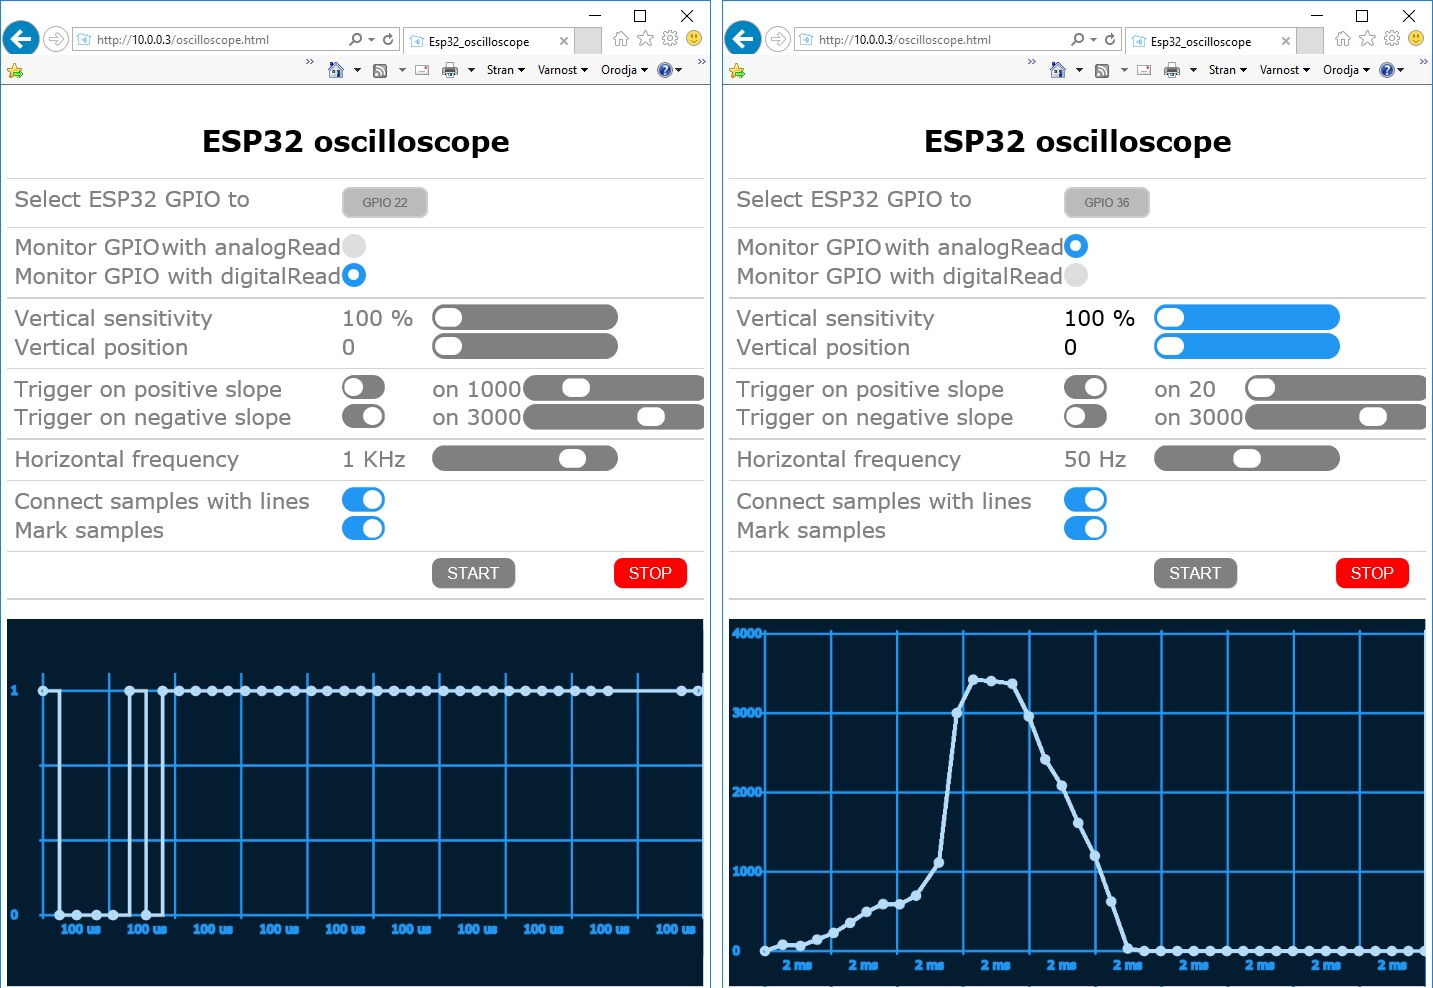
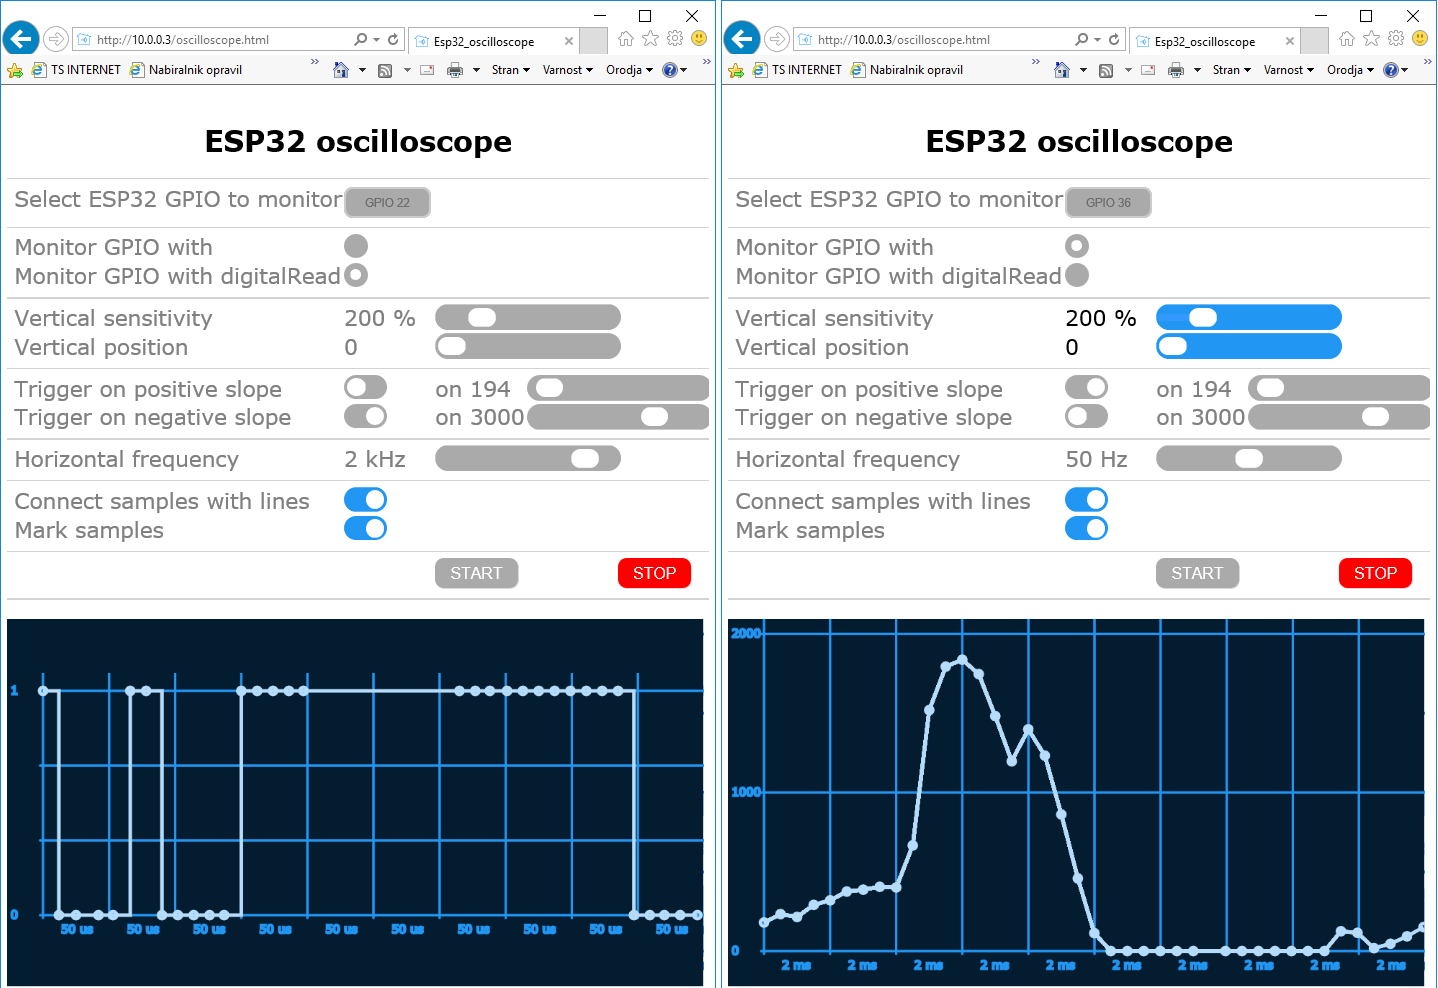
Add files via upload

diff --git a/oscilloscope.html b/oscilloscope.html
@@ -22,17 +22,19 @@
 			/* select control */
 			select {padding: 8px 24px; border-radius: 12px; font-size: 16px; color: black; background-color: #eee; -webkit-appearance: none; -moz-appearance: none; box-sizing: border-box; border: 3px solid #ccc; -webkit-transition: 0.5s; transition: 0.5s; outline: none}
 			select::-ms-expand {display: none}
-			select:disabled {background-color: #bbb}
+			select:disabled {background-color: #aaa}
 
 			/* radio button control */
 			.container {display: black; position: relative; padding-left: 222px; margin-bottom: 14px; cursor: pointer; font-family: verdana; font-size: 30px; color: gray; -webkit-user-select: none; -moz-user-select: none; -ms-user-select: none; user-select: none}
 			.container input {position: absolute; opacity: 0; cursor: pointer; height: 0; width: 0}
 			.checkmark {position: absolute; top: 0; left: 0; height: 34px; width: 34px; background-color: #ddd; border-radius: 50%} 
 			.container:hover input ~ .checkmark {background-color: #ccc}
-			.container input:checked ~ .checkmark {background-color: #2196F3} /* TO DO: set background-color to gray when disabled */
+			.container input:checked ~ .checkmark {background-color: #2196F3}
 			.checkmark:after {content: ""; position: absolute; display: none}
 			.container input:checked ~ .checkmark:after {display: block}
 			.container .checkmark:after {top: 9px; left: 9px; width: 15px; height: 15px; border-radius: 50%; background: white}
+			.container input:disabled ~ .checkmark {background-color: gray} 
+			.container input:disabled ~ .checkmark {background-color: #aaa}
 
 			/* slider control */
 			input[type='range'] {-webkit-appearance: none; -webkit-tap-highlight-color: rgba(255,255,255,0); width: 250px; height: 28px; margin: 0; border: none; padding: 4px 4px; border-radius: 28px; background: #2196F3; outline: none}
@@ -44,8 +46,8 @@
 			input[type='range']::-webkit-slider-thumb {-webkit-appearance: none; width: 38px; height: 26px; border: none; border-radius: 13px; background-color: white}
 			input[type='range']::-moz-range-thumb {width: 38px; height: 26px; border: none; border-radius: 13px; background-color: white}
 			input[type='range']::-ms-thumb {width: 38px; height: 26px; border-radius: 13px; border: 0; background-color: white}
-			input:disabled+.slider {background-color: gray}
-			input[type='range']:disabled {background: gray}
+			input:disabled+.slider {background-color: #aaa}
+			input[type='range']:disabled {background: #aaa}
 
 			/* switch control */
 			.switch {position: relative; display: inline-block; width: 60px; height: 34px}
@@ -57,12 +59,12 @@
 			.switch input {display: none}
 			.slider.round {border-radius: 34px}
 			.slider.round:before {border-radius: 50%}
-			input:disabled+.slider {background-color: gray}
+			input:disabled+.slider {background-color: #aaa}
 
 			/* button control */
 			.button {padding: 10px 15px; font-size: 22px;text-align: center; cursor: pointer; outline: none; color: white; border: none; border-radius: 12px; box-shadow: 1px 1px #ccc; position: relative; top: 0px; height: 42px}
-			button:disabled {background-color: gray}
-			button:disabled:hover {background-color: gray}
+			button:disabled {background-color: #aaa}
+			button:disabled:hover {background-color: #aaa}
 
 			/* blue button */
 			.button1 {background-color: #2196F3}
@@ -388,8 +390,14 @@
 						}
 					};
 
-               				ws.onclose = function() { 
+               				ws.onclose = function () { 
 						// websocket is closed.
+						enableDisableControls (false); 
+					};
+
+					ws.onerror = function (event) {
+						ws.close (); 
+						alert ("WebSocket error: " + event);
 						enableDisableControls (false); 
 					};
 
@@ -584,7 +592,7 @@
 							break;
 				}
 
-				for (x = 0; x < screenWidthTime * 1.1; x += xGridTick) { // * TO DO: 1.1 factor is here to bypass the problem of colouring the last vertical line with the signal colour which I'm not addressing right now
+				for (x = 0; x < screenWidthTime; x += xGridTick) { 
 					i = xOffset + xScale * x;
 					ctx.strokeText (xLabel, i + 25, yOffset + 25);	
 					ctx.beginPath ();
@@ -593,6 +601,7 @@
 					ctx.closePath ();
 					ctx.stroke ();
 				}
+				ctx.beginPath (); ctx.moveTo (-1, -1); ctx.lineTo (-1, -1); ctx.closePath (); ctx.stroke (); // non-existing line - this line will be redrawn latter with signal color after first stroke - put it outside of view since we don't want this to hapen
 
 			}
 
@@ -798,6 +807,7 @@
 				while ((performance.now () - start) < milliseconds);
 			}
 			
+			// enableDisableControls (true);
 			// test_analog_1_sample_at_a_time ();
 			// test_analog_1_screen_at_a_time ();
 			// test_digital_1_sample_at_a_time ();
